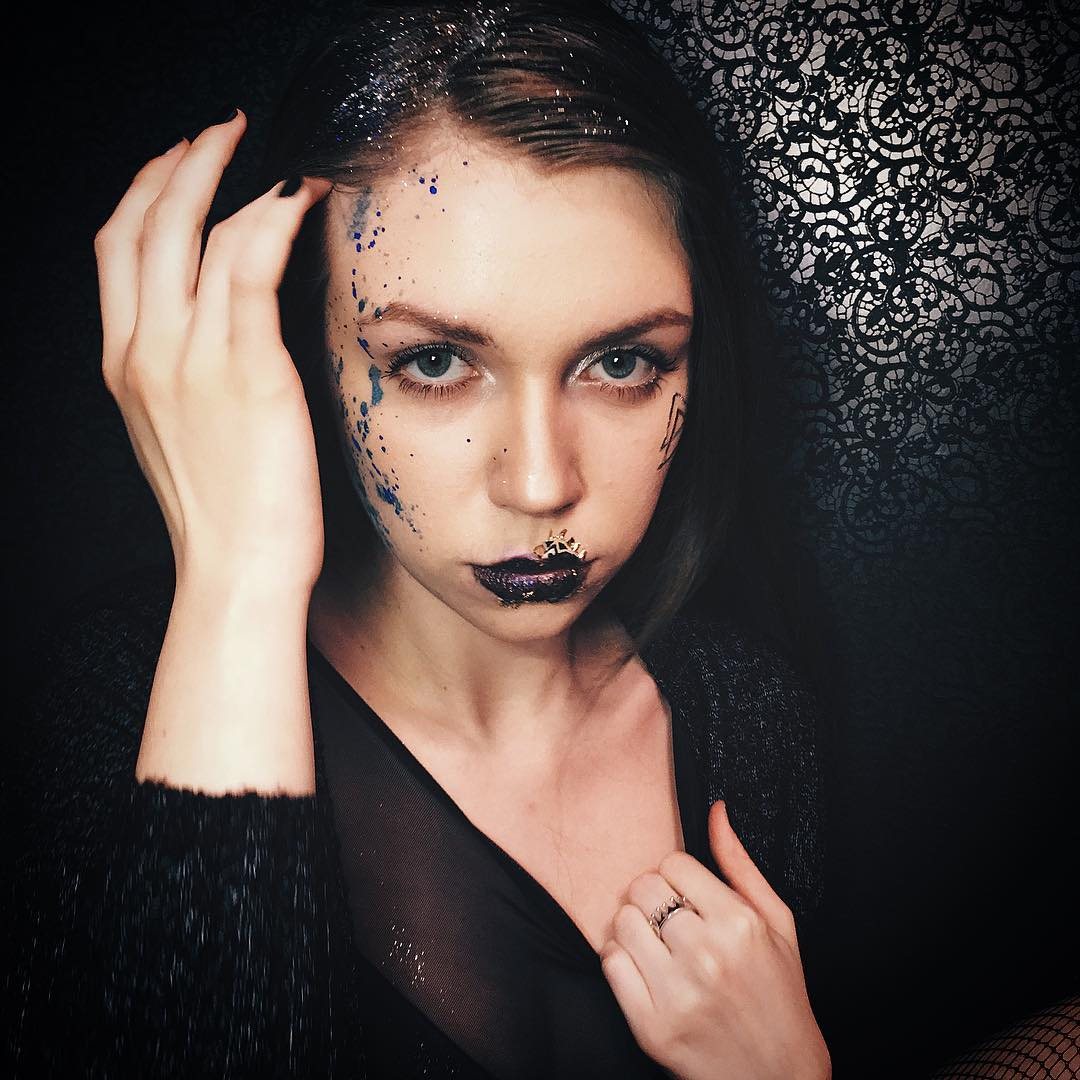
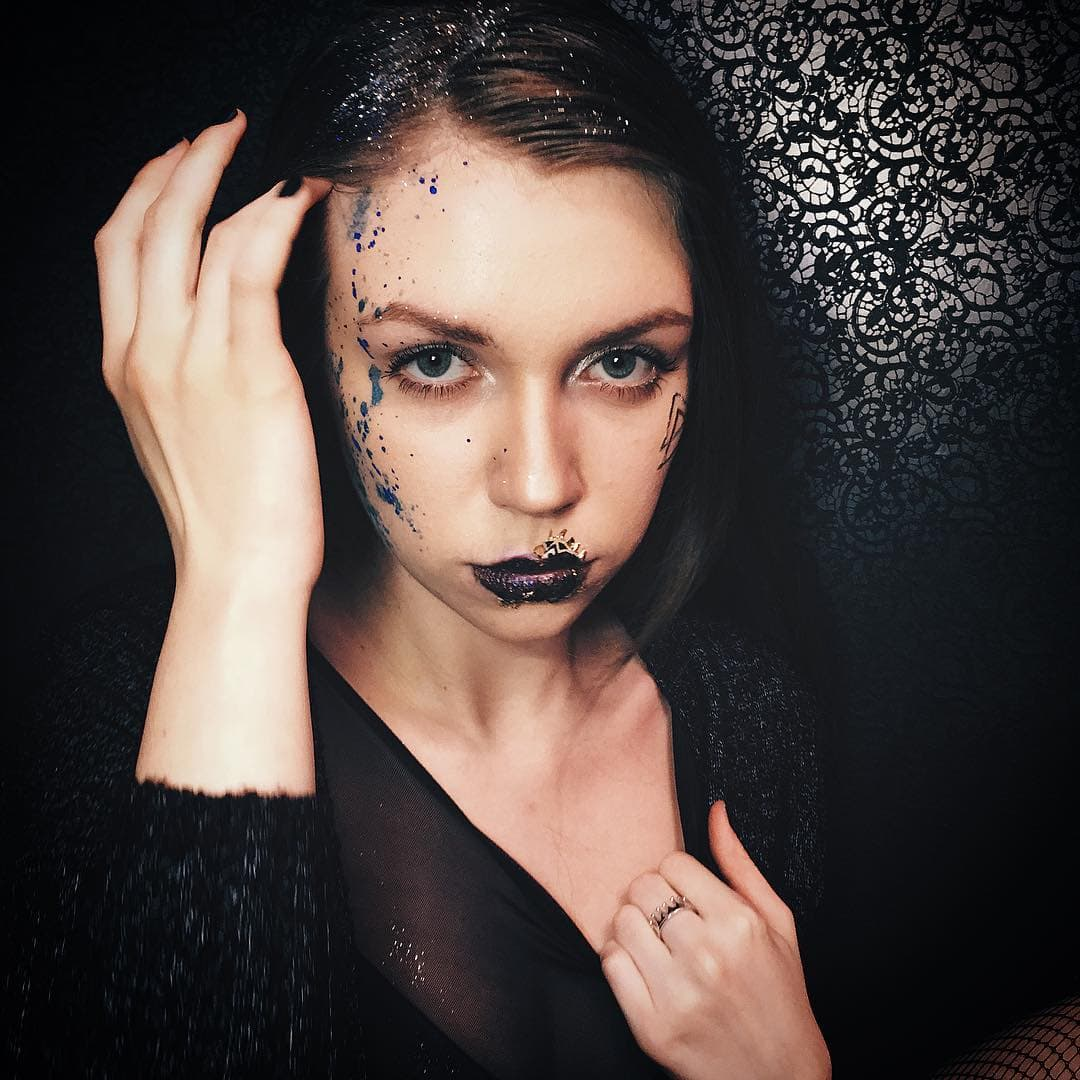
compress images and add how-order

Changed region(s): [[0.7028, 0.0611, 0.8861, 0.3056], [0.7028, 0.0917, 0.7639, 0.1222], [0.3361, 0.0611, 0.3667, 0.0917]]

diff --git a/index.html b/index.html
@@ -72,11 +72,11 @@
 
 														<div class="imgtable">
 															<img class="intable" src="images/artists/vasya/1.jpg">
-															<img class="intable" src="images/artists/vasya/2.png">
+															<img class="intable" src="images/artists/vasya/2.jpg">
 															<img class="intable" src="images/artists/vasya/3.jpg">
-															<img class="intable" src="images/artists/vasya/4.png">
-															<img class="intable" src="images/artists/vasya/5.png">
-															<img class="intable" src="images/artists/vasya/6.png">
+															<img class="intable" src="images/artists/vasya/4.jpg">
+															<img class="intable" src="images/artists/vasya/5.jpg">
+															<img class="intable" src="images/artists/vasya/6.jpg">
 															<img class="intable" src="images/artists/vasya/7.jpg">
 														</div>
 
@@ -142,7 +142,6 @@
 															<img class="intable" src="images/artists/lisa/1.JPG">
 															<img class="intable" src="images/artists/lisa/2.JPG">
 															<img class="intable" src="images/artists/lisa/3.JPG">
-															<img class="intable" src="images/artists/lisa/4.JPG">
 															<img class="intable" src="images/artists/lisa/5.jpg">
 															<img class="intable" src="images/artists/lisa/6.jpg">
 															<img class="intable" src="images/artists/lisa/7.JPG">
@@ -175,9 +174,9 @@
 
 
 														<div class="imgtable">
-															<img class="intable" src="images/artists/valerie/1.png">
-															<img class="intable" src="images/artists/valerie/2.png">
-															<img class="intable" src="images/artists/valerie/3.png">
+															<img class="intable" src="images/artists/valerie/1.jpg">
+															<img class="intable" src="images/artists/valerie/2.jpg">
+															<img class="intable" src="images/artists/valerie/3.jpg">
 															<img class="intable" src="images/artists/valerie/5.jpg">
 															<img class="intable" src="images/artists/valerie/6.jpg">
 															<img class="intable" src="images/artists/valerie/7.jpg">
@@ -316,7 +315,7 @@
 															<img class="intable" src="images/artists/polza_mua/3.jpg">
 															<img class="intable" src="images/artists/polza_mua/4.jpg">
 															<img class="intable" src="images/artists/polza_mua/5.jpg">
-															<img class="intable" src="images/artists/polza_mua/6.png">
+															<img class="intable" src="images/artists/polza_mua/6.jpg">
 															<img class="intable" src="images/artists/polza_mua/7.jpg">
 														</div>
 
@@ -434,6 +433,25 @@
 										<div style="margin-left: auto; margin-right: auto; width: 100px; position: relative; top: 30px; left: -10px;">
 										<button id="go-left" class="button-go"><i class="fa fa-arrow-left" aria-hidden="true"></i></button><button id="go-right" class="button-go"><i class="fa fa-arrow-right" aria-hidden="true"></i></button>
 										</div>
+									</div>
+								</div>
+							</section>
+
+
+							<section id="order_how" class="main">
+								<div class="spotlight">
+									<div class="content">
+										<header class="major">
+											<h2>Как заказать?</h2>
+										</header>
+
+										<h3><b>1.</b></h3> Войди или зарегистируйся в приложении.
+										<h3><b>2.</b></h3> Выбери визажиста, который тебе больше всего понравился. Портфолио каждого визжасита можно посмотреть, если на жать на кнопку "Визажисты" на главном экране.
+										<h3><b>3.</b></h3> Нажми на кнопку "Заказать" внизу на главном экране.
+										<h3><b>4.</b></h3> Заполни свой номер телефона и выбери способ, как с тобой лучше связаться.
+										<h3><b>5.</b></h3> Нажми на кнопку "Заказать" и мы свяжемся с тобой в течении получаса, чтобы уточнить детали заказа. 
+
+
 									</div>
 								</div>
 							</section>
